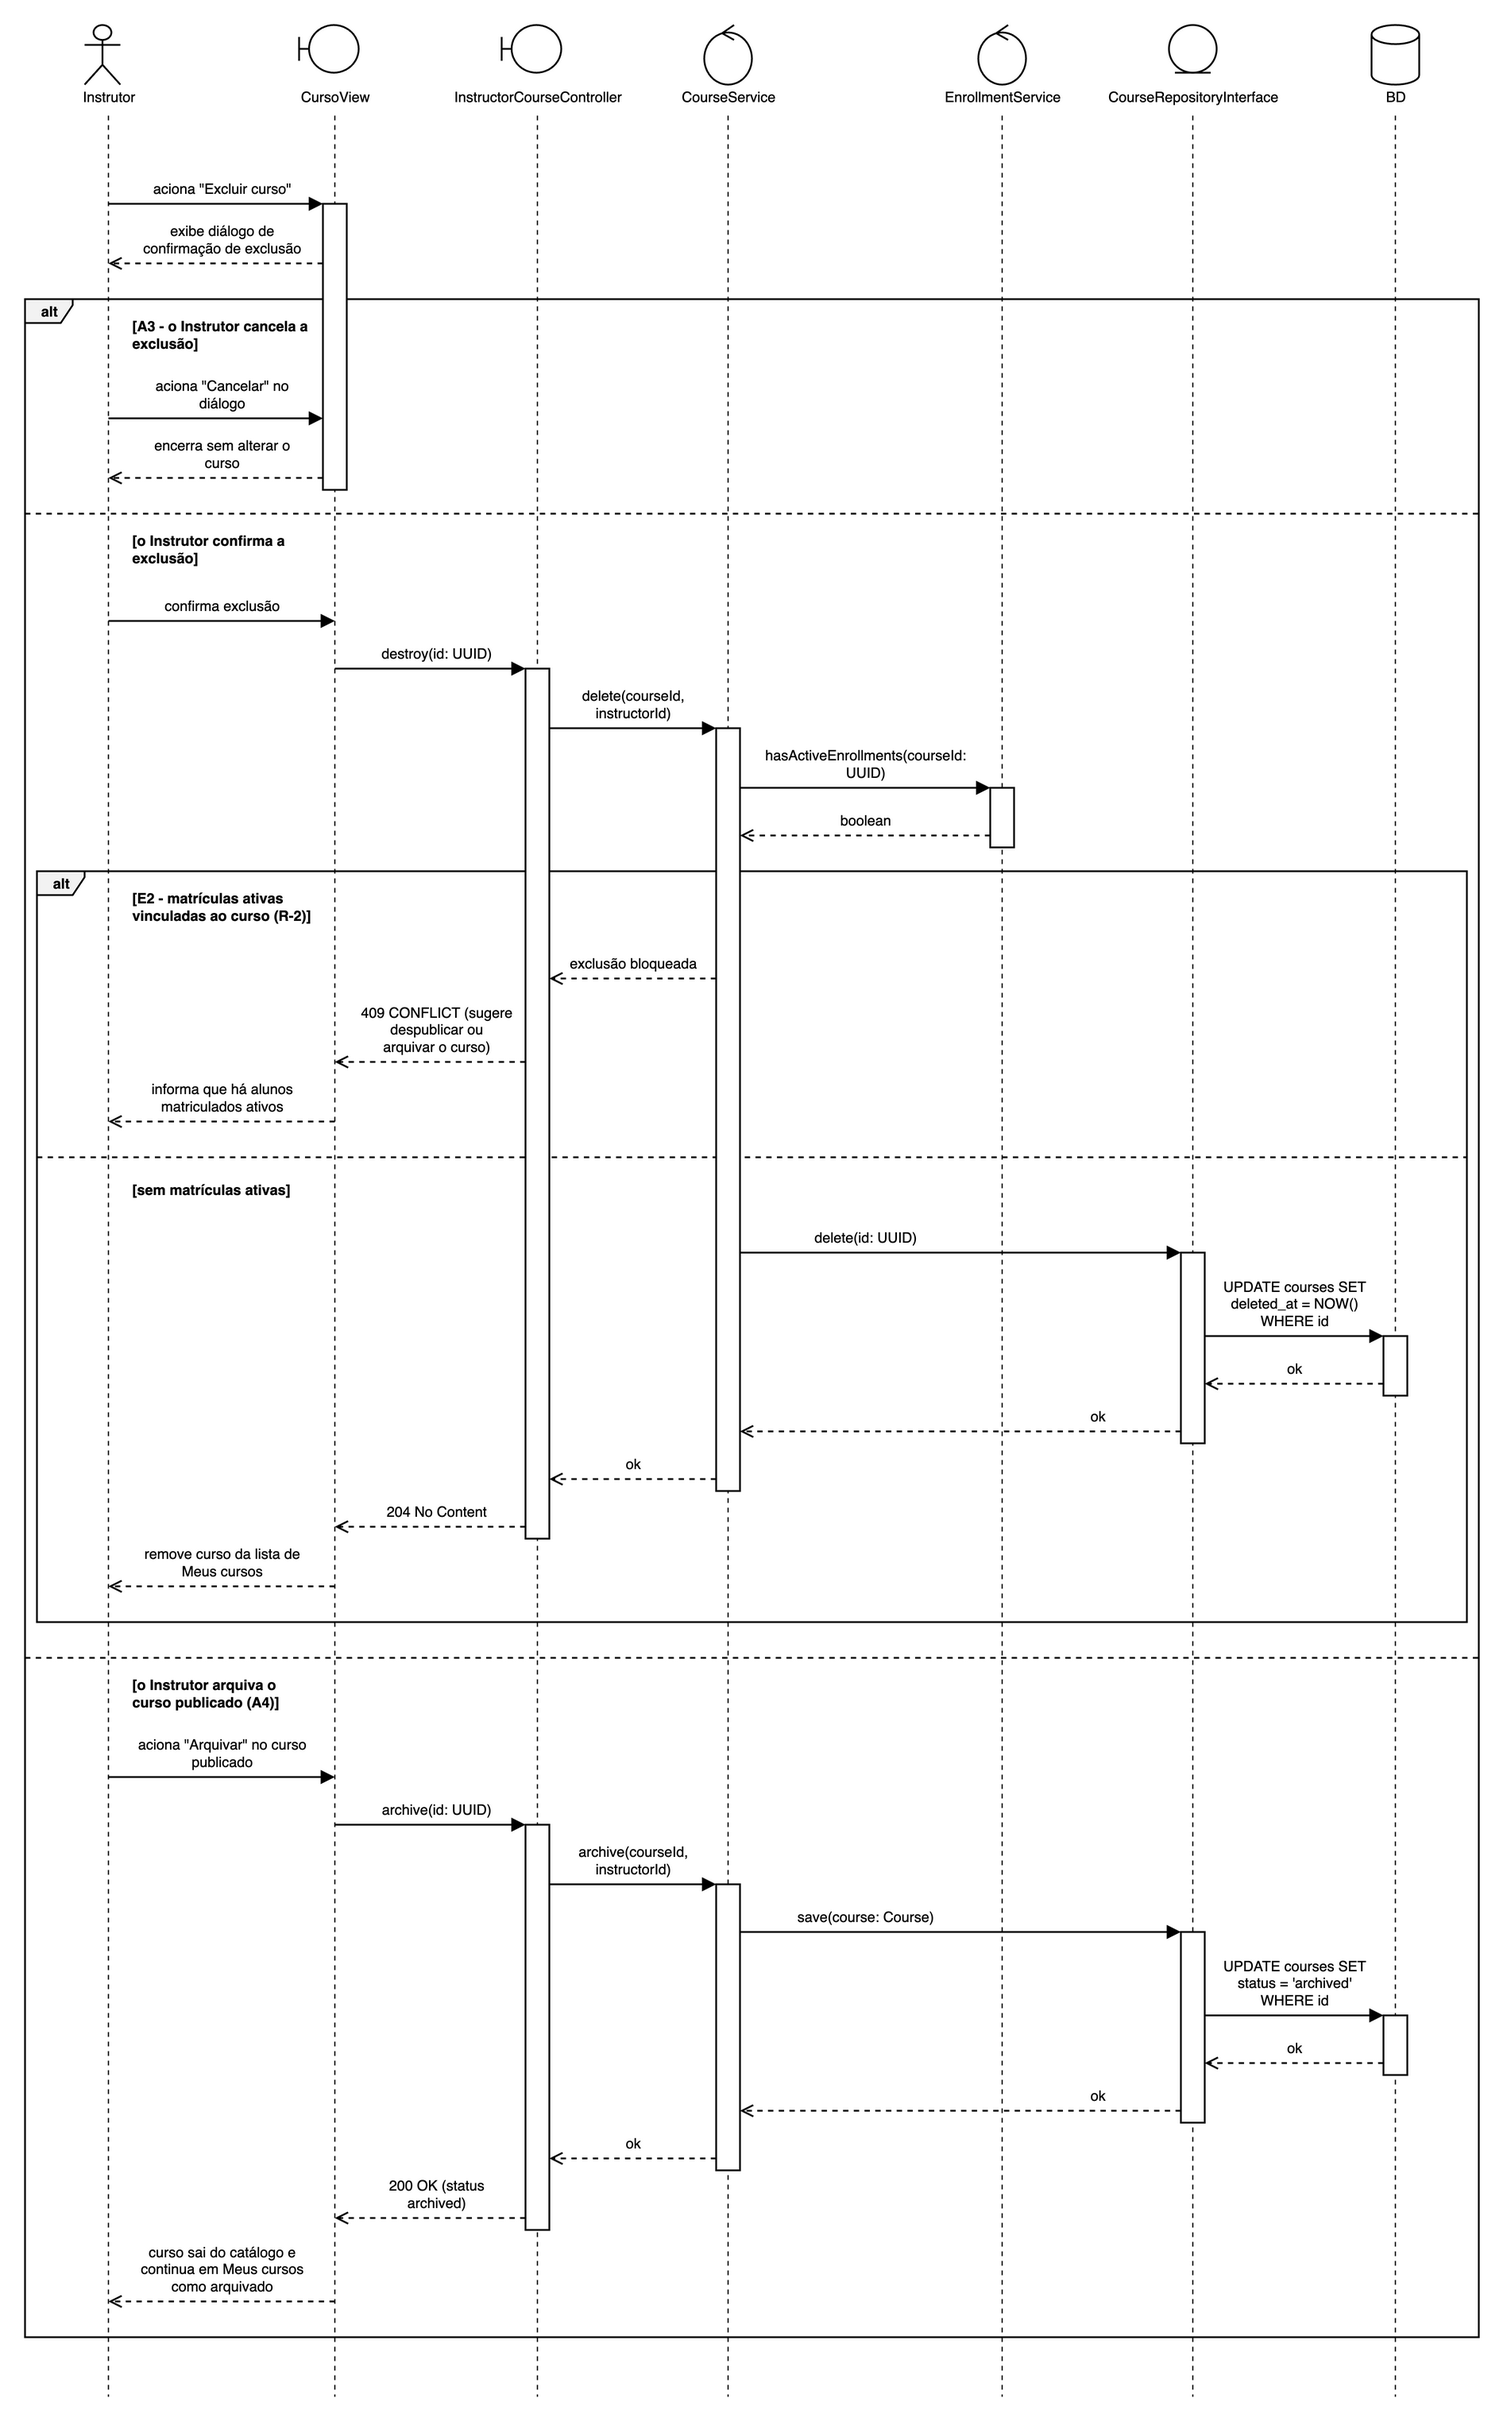
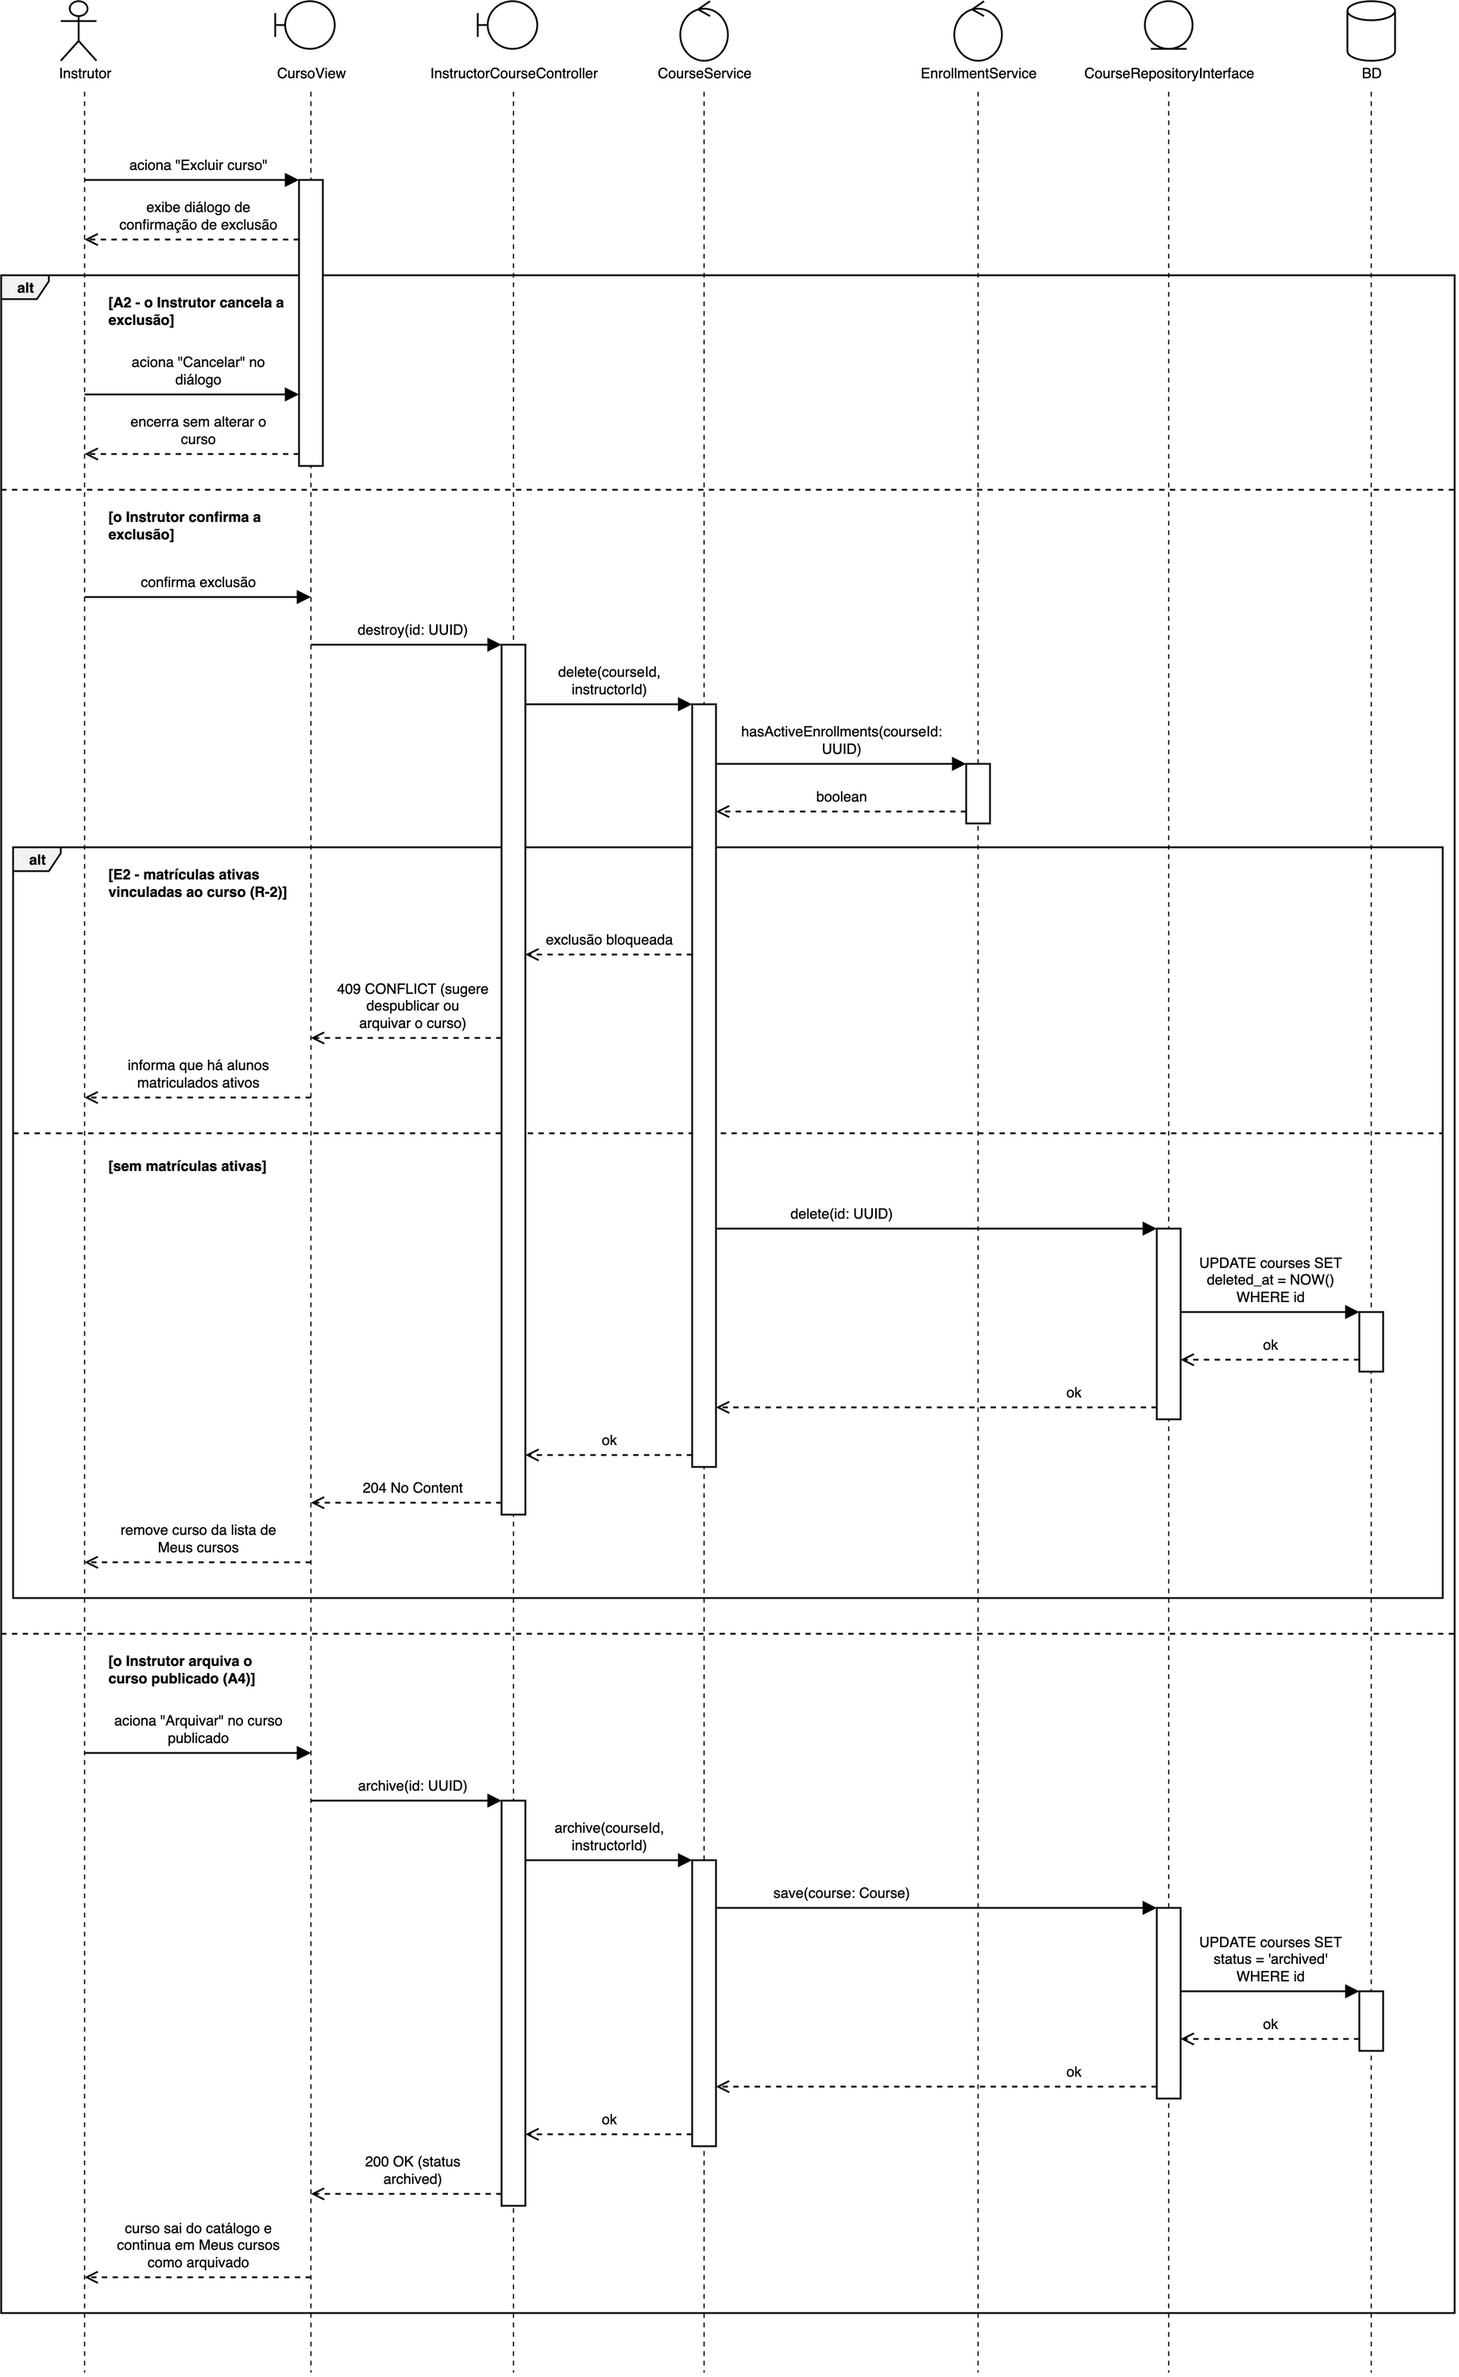
docs(spec): fix sequence cancellation guard, variable casing, and test exceptions
Update the cancellation frame guard to A2 in the UC006-2 sequence diagram, fix videoKey variable casing in the sequence documentation, and correct authorization exception citations to E3 in TC094 and TC116.

diff --git a/especificacao/15-casos-de-teste/area-b.md b/especificacao/15-casos-de-teste/area-b.md
@@ -12,7 +12,7 @@
 | TC123 | 5 – A4 Arquivar curso | CT1 Arquivamento de curso | Curso publicado (`status: published`); acionamento de arquivamento pelo instrutor proprietário | Status alterado para `archived` (D-TC266), curso removido das listagens do catálogo público, mantendo acesso apenas aos alunos já matriculados (200 OK). |
 | TC093 | 6 – E1 Campos obrigatórios ausentes | CT1 Título e preço em branco | Título vazio, descrição `Introdução`, preço em branco | Resposta 422 `VALIDATION_FAILED` com `fields.title` e `fields.priceCents` indicando obrigatoriedade; nenhum registro é criado. |
 | TC012 | 7 – E2 Excluir curso com matrículas | CT1 Exclusão bloqueada com alunos | Curso com 5 alunos matriculados em `Enrollment`; acionamento de «Excluir curso» | Resposta 409 `CONFLICT` com mensagem de bloqueio (R-2), impedindo a exclusão e sugerindo despublicar ou arquivar o curso; dados mantidos intactos. |
-| TC094 | 8 – E3 Não proprietário do curso | CT1 Instrutor edita curso de terceiro | Instrutor logado envia `PUT /api/v1/instructor/courses/{id}` para curso de outro instrutor | Resposta 403 `FORBIDDEN` (R-1); nenhuma alteração é persistida. |
+| TC094 | 8 – E3 Não proprietário do curso | CT1 Instrutor edita curso de terceiro | Instrutor logado envia `PUT /api/v1/instructor/courses/{id}` para curso de outro instrutor | Resposta 403 `FORBIDDEN` (E3); nenhuma alteração é persistida. |
 | TC095 | 9 – E4 Publicar curso sem conteúdo | CT1 Publicar curso vazio | Curso recém-criado em rascunho sem nenhum módulo ou aula cadastrado; clique em «Publicar» | Resposta 422 `VALIDATION_FAILED` informando necessidade de ao menos um módulo e uma aula para publicação; curso permanece com status `draft`. |
 
 ## 2. UC014 – Gerenciar Módulos do Curso
@@ -67,5 +67,5 @@
 | TC113 | 4 – A3 Cancelar cadastro de quiz | CT1 Cancelamento de criação de quiz | Formulário de criação de quiz com dados preenchidos; clique em «Cancelar» | Operação cancelada, alterações descartadas e retorno à visualização do módulo sem persistir dados. |
 | TC114 | 5 – E1 Menos de duas alternativas | CT1 Pergunta com apenas uma alternativa | Pergunta com texto válido, porém com apenas 1 alternativa cadastrada | Resposta 422 `VALIDATION_FAILED` com indicação de que toda pergunta exige no mínimo duas alternativas (R-1); quiz não é salvo. |
 | TC029 | 6 – E2 Pergunta sem gabarito | CT1 Pergunta sem alternativa correta | Pergunta com 4 alternativas cadastradas, nenhuma marcada com `isCorrect = true` | Resposta 422 `VALIDATION_FAILED` informando a obrigatoriedade de marcar a alternativa correta (R-1); quiz não é salvo. |
-| TC116 | 7 – E3 Não proprietário do curso | CT1 Quiz em módulo de terceiro | Envio de `POST /api/v1/instructor/modules/{id}/quiz` em módulo de outro instrutor | Resposta 403 `FORBIDDEN` (R-1); nenhum quiz é cadastrado. |
+| TC116 | 7 – E3 Não proprietário do curso | CT1 Quiz em módulo de terceiro | Envio de `POST /api/v1/instructor/modules/{id}/quiz` em módulo de outro instrutor | Resposta 403 `FORBIDDEN` (E3); nenhum quiz é cadastrado. |
 | TC117 | 8 – E4 Módulo inexistente | CT1 Quiz para módulo removido | ID de módulo inexistente ou já excluído no endpoint de criação | Resposta 404 `NOT_FOUND` informando módulo não encontrado. |

diff --git a/especificacao/14-diagramas-de-sequencia/area-b.md b/especificacao/14-diagramas-de-sequencia/area-b.md
@@ -20,7 +20,7 @@ Cobre o fluxo básico de cadastro de módulo e o fluxo de exclusão (A2), com ca
 
 ## 3. UC015 – Gerenciar Aulas do Curso
 
-Modela o envio direto de vídeo à API multipart (`media-service`), criação de aula com chave de vídeo obrigatória (`videoKey`, decisões B2 e B3) e exclusão lógica de aula (A2) com cancelamento em bloco `alt` (A3). Formato ou tamanho inválidos (> 500 MB, mp4/webm) devolvem 422 `VALIDATION_FAILED` (E1, R-2, RNF018). Falha de transmissão ou armazenamento responde 503 `SERVICE_UNAVAILABLE` com `Retry-After`, informa o erro e permite nova tentativa de envio (E2). Com o envio do arquivo concluído, `MediaStorageInterface.uploadFile` retorna os metadados (`StoredFileDTO`), e a aula é persistida com `video_key` obrigatório; logo após, `TranscriptionQueueInterface.dispatchTranscriptionJob` enfileira a transcrição e a indexação de forma assíncrona (RNF004). Na exclusão, `LessonProgressService.hasStudentProgress` (Área C) bloqueia a remoção com 409 `CONFLICT` quando há progresso de aluno (E4, R-5); sem progresso, a exclusão lógica marca `deleted_at` na aula e em seus materiais vinculados (ADR-0014), e os arquivos de vídeo e de materiais permanecem no Cloudflare R2, sem remoção física.
+Modela o envio direto de vídeo à API multipart (`media-service`), criação de aula com chave de vídeo obrigatória (`videoKey`, decisões B2 e B3) e exclusão lógica de aula (A2) com cancelamento em bloco `alt` (A3). Formato ou tamanho inválidos (> 500 MB, mp4/webm) devolvem 422 `VALIDATION_FAILED` (E1, R-2, RNF018). Falha de transmissão ou armazenamento responde 503 `SERVICE_UNAVAILABLE` com `Retry-After`, informa o erro e permite nova tentativa de envio (E2). Com o envio do arquivo concluído, `MediaStorageInterface.uploadFile` retorna os metadados (`StoredFileDTO`), e a aula é persistida com `videoKey` obrigatório; logo após, `TranscriptionQueueInterface.dispatchTranscriptionJob` enfileira a transcrição e a indexação de forma assíncrona (RNF004). Na exclusão, `LessonProgressService.hasStudentProgress` (Área C) bloqueia a remoção com 409 `CONFLICT` quando há progresso de aluno (E4, R-5); sem progresso, a exclusão lógica marca `deleted_at` na aula e em seus materiais vinculados (ADR-0014), e os arquivos de vídeo e de materiais permanecem no Cloudflare R2, sem remoção física.
 
 ![Diagrama de sequência do UC015](../diagramas/14-sequencia-uc015.png)
 
